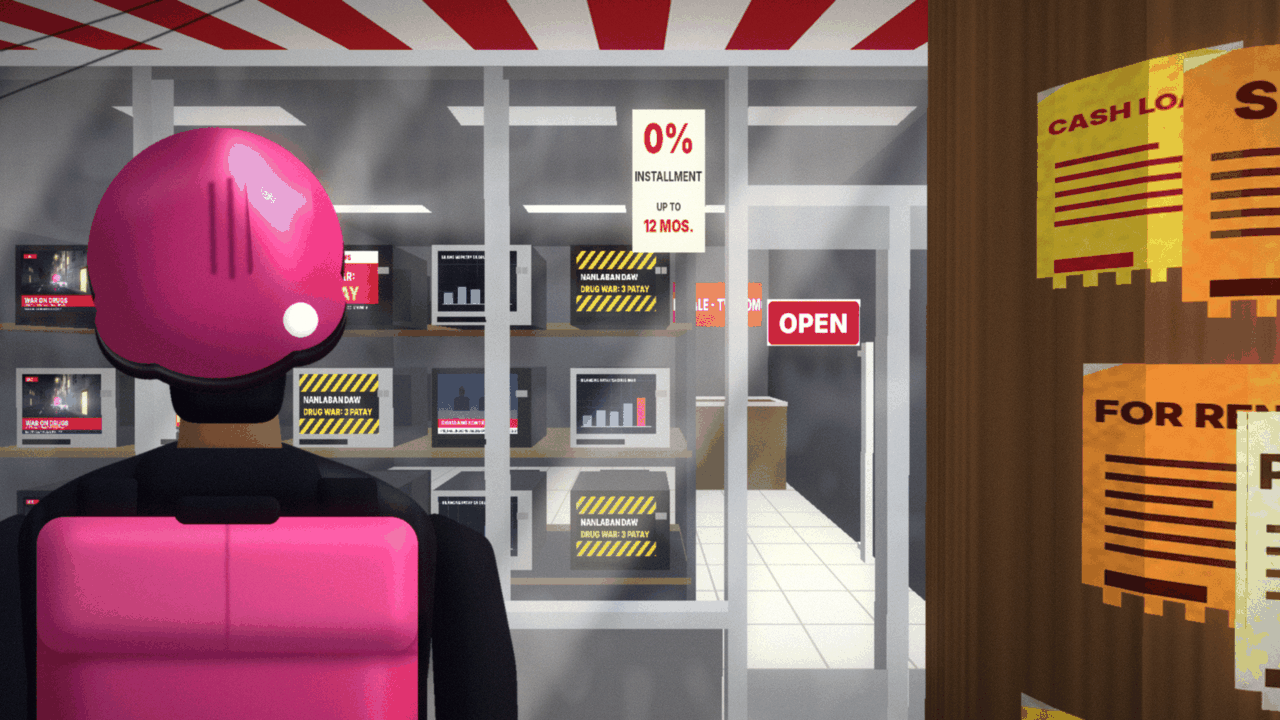
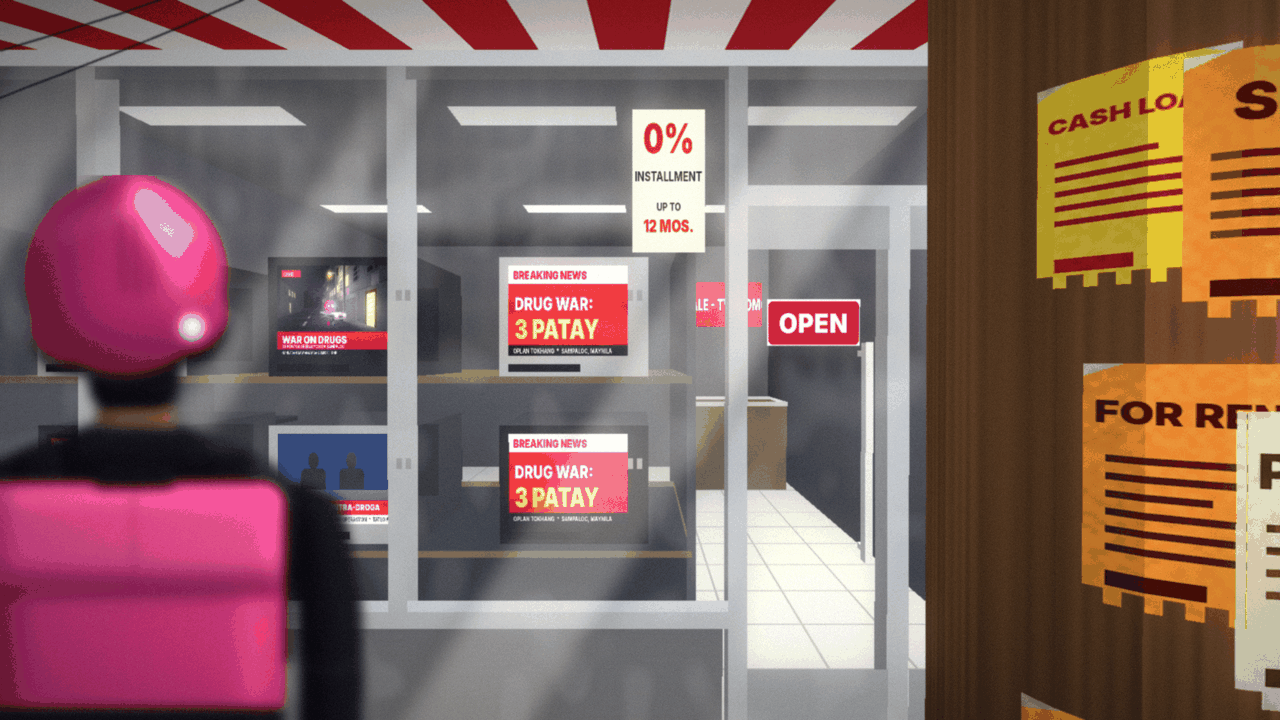
feat(art): blur Peter and use fewer, larger TVs in the news scene
Claude-Session: https://claude.ai/code/session_018qtt7uTeVSGsnvQanUjafP

diff --git a/tools/tv_store.py b/tools/tv_store.py
@@ -20,6 +20,7 @@ import math
 from pathlib import Path
 
 import numpy as np
+from scipy.ndimage import gaussian_filter
 from PIL import Image, ImageChops, ImageDraw, ImageEnhance, ImageFilter, ImageFont
 
 import rider_back
@@ -151,14 +152,14 @@ def turned_box(scene, centre_xz, y0, y1, w, d, yaw, color, layer=2, skip=()):
             scene.face(_turned(points, centre_xz, yaw), color, layer=layer)
 
 
-def crt_set(scene, cx, y0, cz, frame: Image.Image, bezel=(26, 26, 30), layer=2):
+def crt_set(scene, cx, y0, cz, frame: Image.Image, bezel=(26, 26, 30), layer=2, k=1.0):
     """A regular tube television, 50 cm wide and 40 cm high with a deep boxy body, standing on a
     shelf at (cx, cz) and facing the street. All the shop's sets are this size. Its screen glows
     with the news, and the body's sides and top catch the light so it reads as a solid."""
-    w, h, depth = 0.50, 0.40, 0.42
+    w, h, depth = 0.50 * k, 0.40 * k, 0.42 * k
     turned_box(scene, (cx, cz + depth / 2), y0, y0 + h, w, depth, 0, (52, 52, 58), layer)
     # The bulge of the tube at the back, narrower than the front.
-    turned_box(scene, (cx, cz + depth + 0.14), y0 + 0.05, y0 + h - 0.05, w * 0.62, 0.28, 0, (40, 40, 46), layer)
+    turned_box(scene, (cx, cz + depth + 0.14 * k), y0 + 0.05 * k, y0 + h - 0.05 * k, w * 0.62, 0.28 * k, 0, (40, 40, 46), layer)
     # The front: a bezel around a screen, and a control strip with two knobs and a speaker grille.
     scene.face([(cx - w / 2, y0 + h, cz - 0.002), (cx + w / 2, y0 + h, cz - 0.002), (cx + w / 2, y0, cz - 0.002), (cx - w / 2, y0, cz - 0.002)],
                bezel, layer=layer + 1)
@@ -565,25 +566,25 @@ def build(size) -> Image.Image:
     scene.box(1.7, 2.9, 0.95, 0.99, 3.75, 4.55, (210, 210, 214), layer=1)
     # Three shelves, each a row of five identical tube sets side by side with a clear gap between.
     plank = (118, 92, 66)
-    shelf_tops = (0.42, 1.04, 1.66)
+    shelf_tops = (0.55, 1.4)
     shelf_x0, shelf_x1 = -2.0, 1.5
     for top in shelf_tops:
-        scene.box(shelf_x0, shelf_x1, top - 0.03, top, 0.5, 1.3, plank, layer=1)
+        scene.box(shelf_x0, shelf_x1, top - 0.03, top, 0.5, 1.9, plank, layer=1)
     for ux in (shelf_x0, shelf_x1):
-        scene.box(ux - 0.02, ux + 0.02, 0.0, 2.15, 0.5, 1.3, (70, 72, 82), layer=1)
-    scene.box(shelf_x0, shelf_x1, 0.0, 0.39, 0.55, 1.25, (44, 46, 54), layer=1)
-    pitch = (shelf_x1 - shelf_x0) / 5
+        scene.box(ux - 0.02, ux + 0.02, 0.0, 2.15, 0.5, 1.9, (70, 72, 82), layer=1)
+    scene.box(shelf_x0, shelf_x1, 0.0, 0.52, 0.55, 1.85, (44, 46, 54), layer=1)
+    pitch = (shelf_x1 - shelf_x0) / 3
     bezels = [(26, 26, 30), (176, 178, 184)]
     frame_no = 0
     for row, top in enumerate(shelf_tops):
-        for col in range(5):
+        for col in range(3):
             cx = shelf_x0 + pitch * (col + 0.5)
-            crt_set(scene, cx, top, 0.6, broadcast(640, 360, frame_no % 5), bezel=bezels[(row + col) % 2])
+            crt_set(scene, cx, top, 0.6, broadcast(640, 360, frame_no % 5), bezel=bezels[(row + col) % 2], k=1.5)
             frame_no += 1 + (row == 1)
 
     # ---- the window: aluminium frames between the sets, the double glass door, then the glass sheet
     frame_c = (176, 180, 188)
-    for fx in (gx0, shelf_x0 + pitch * 2 - 0.02, shelf_x0 + pitch * 4 - 0.1, door_x0, gx1):
+    for fx in (gx0, shelf_x0 + pitch, shelf_x0 + pitch * 2, door_x0, gx1):
         scene.box(fx - 0.035, fx + 0.035, gy0 if fx < door_x0 else 0.0, gy1, -0.06, 0.03, frame_c, layer=4)
     scene.box(gx0, gx1, gy1 - 0.03, gy1 + 0.03, -0.06, 0.03, frame_c, layer=4)
     scene.box(gx0, door_x0, gy0 - 0.03, gy0 + 0.03, -0.06, 0.03, frame_c, layer=4)
@@ -631,7 +632,7 @@ def build(size) -> Image.Image:
                (0, 0, 0), texture=pole_shadow, layer=1)
 
     # ---- the rider's shadow, thrown towards the shop, away from the sun
-    rider_x, rider_z = 0.8, -1.45
+    rider_x, rider_z = 0.55, -1.3
     shadow = Image.new("RGBA", (160, 520), (0, 0, 0, 0))
     sd = ImageDraw.Draw(shadow)
     sd.ellipse((58, 460, 102, 510), fill=(8, 8, 14, 190))
@@ -673,7 +674,14 @@ def build(size) -> Image.Image:
     x0, y0 = max(left, 0), max(top, 0)
     x1, y1 = min(left + sprite.width, w), min(top + sprite.height, h)
     if x1 > x0 and y1 > y0:
-        canvas.alpha_composite(sprite.crop((x0 - left, y0 - top, x1 - left, y1 - top)), (x0, y0))
+        near = sprite.crop((x0 - left, y0 - top, x1 - left, y1 - top))
+        # Out of focus: he is much closer than the shop, so the lens softens him (premultiplied, so no dark fringe).
+        a = np.asarray(near).astype(np.float32)
+        a[..., :3] *= a[..., 3:4] / 255.0
+        a = np.stack([gaussian_filter(a[..., i], 7.0) for i in range(4)], axis=-1)
+        a[..., :3] = a[..., :3] / np.maximum(a[..., 3:4] / 255.0, 1e-3)
+        near = Image.fromarray(np.clip(a, 0, 255).astype(np.uint8), "RGBA")
+        canvas.alpha_composite(near, (x0, y0))
     return canvas
 
 

diff --git a/HANDOFF.md b/HANDOFF.md
@@ -169,6 +169,9 @@ Each is a tagged release on `main`. `git log --oneline` and `git tag -l` show th
 
 ## Where we stopped
 
+- **TV news scene, focus shot (same branch):** Peter is pushed to the left edge as a shoulder view and
+  blurred (gaussian, premultiplied) so the lens focuses on the news; two shelves of three bigger sets
+  (`crt_set(..., k=1.5)`) instead of three rows of five.
 - **TV news scene, super close (branch claude/tv-store-closeup, on claude/tv-store-shoulder):** the camera
   is right at the glass; the rider is seen from head to chest only, large at the left; the tube sets, the
   double door with its OPEN sign and the posted pole fill the rest. `tools/tv_store.py` (`build`).
